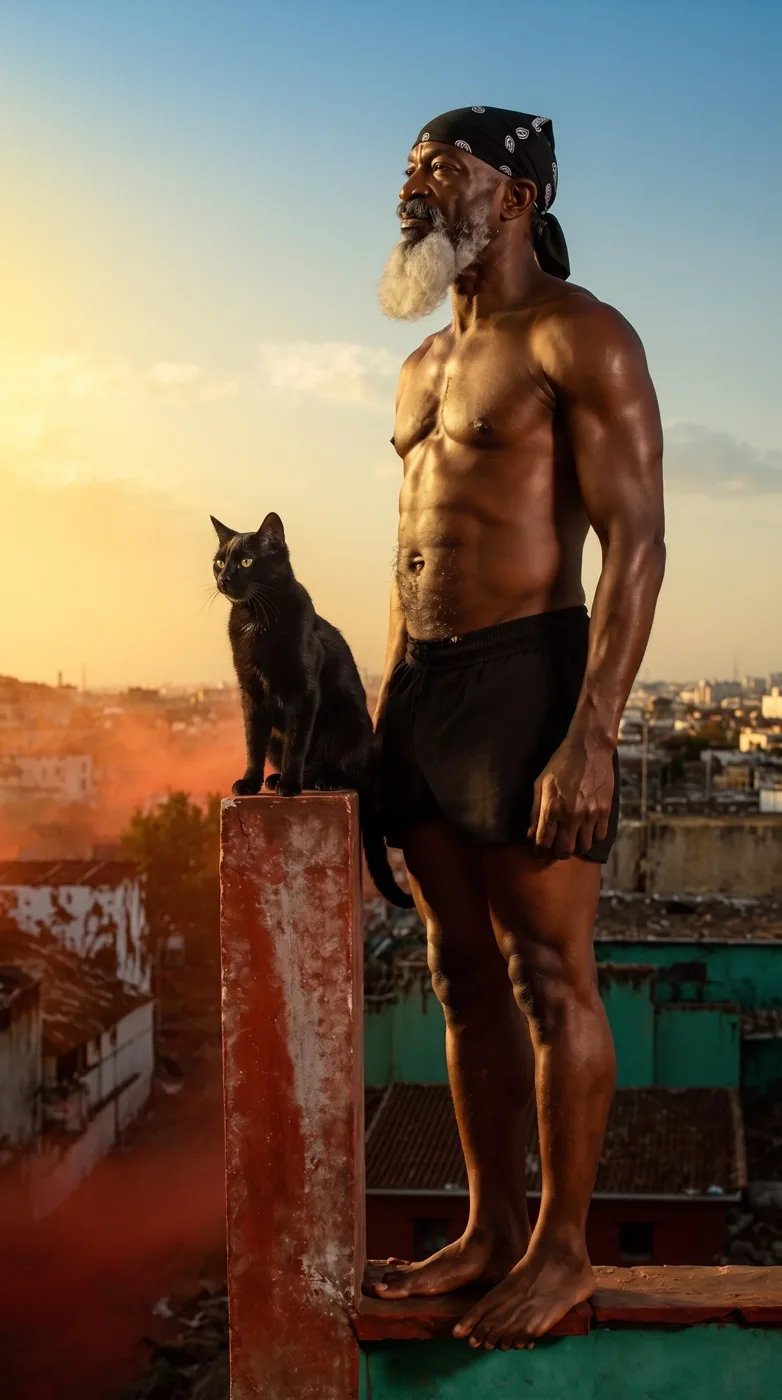
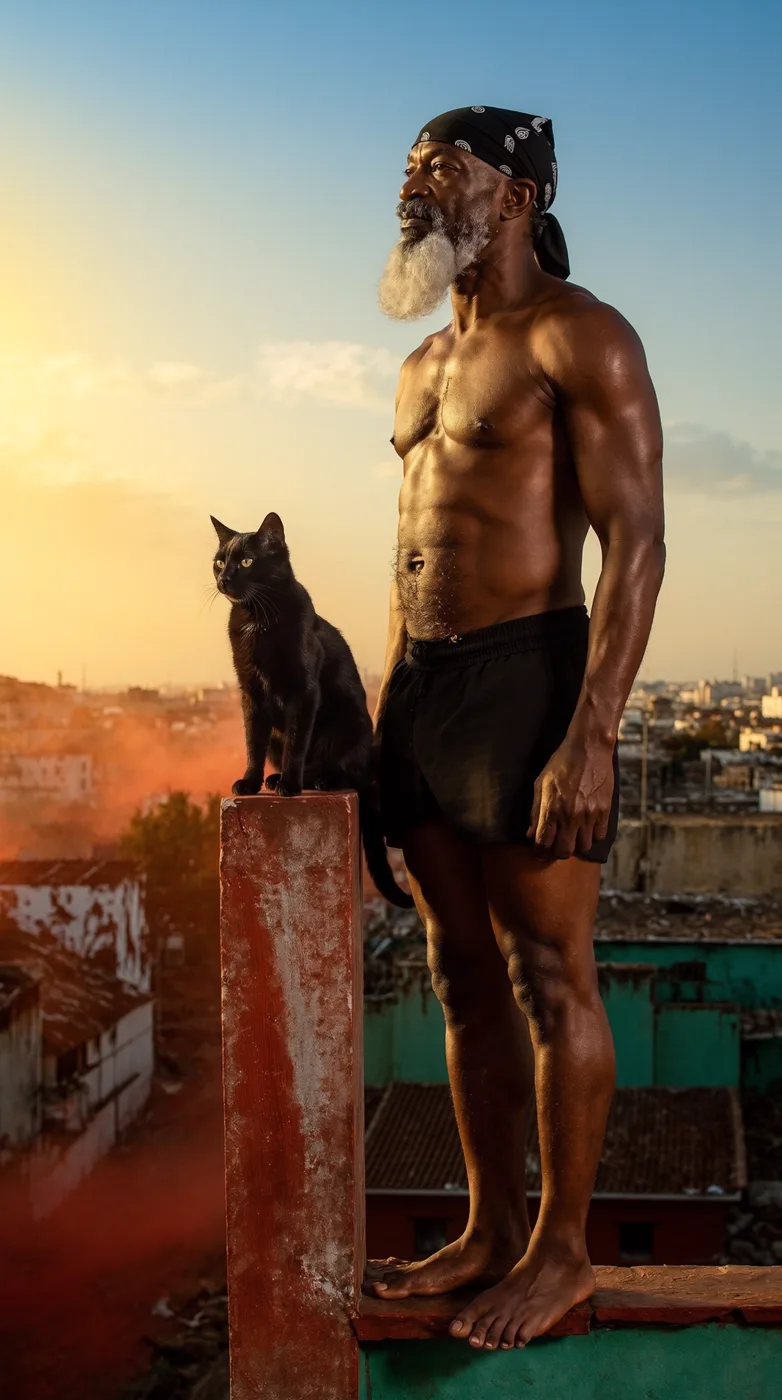
Use the newer portrait on the gate and the label's real number
The gate had an earlier render of the same rooftop shot; this one is the
tighter frame. The phone number is real now, the registration and VAT stay
at zero until there are true ones.

diff --git a/404.html b/404.html
@@ -224,12 +224,12 @@
         </button>
       </form>
     </div>
-    <!-- Valores de exemplo, a substituir pelos reais antes de o site abrir. -->
+    <!-- Numero de registo e IVA a zeros ate haver os reais; telefone e o real. -->
     <address class="tmanecas-porta__editora">
       <strong>Fortuna Records Ltd</strong>
       Registered in England &amp; Wales<br>
       Company No. 00000000 &middot; VAT GB 000 0000 00<br>
-      London, United Kingdom &middot; +44 (0)20 0000 0000
+      London, United Kingdom &middot; +44 7765 440505
     </address>
   </div>
 </div>

diff --git a/index.html b/index.html
@@ -224,12 +224,12 @@
         </button>
       </form>
     </div>
-    <!-- Valores de exemplo, a substituir pelos reais antes de o site abrir. -->
+    <!-- Numero de registo e IVA a zeros ate haver os reais; telefone e o real. -->
     <address class="tmanecas-porta__editora">
       <strong>Fortuna Records Ltd</strong>
       Registered in England &amp; Wales<br>
       Company No. 00000000 &middot; VAT GB 000 0000 00<br>
-      London, United Kingdom &middot; +44 (0)20 0000 0000
+      London, United Kingdom &middot; +44 7765 440505
     </address>
   </div>
 </div>
